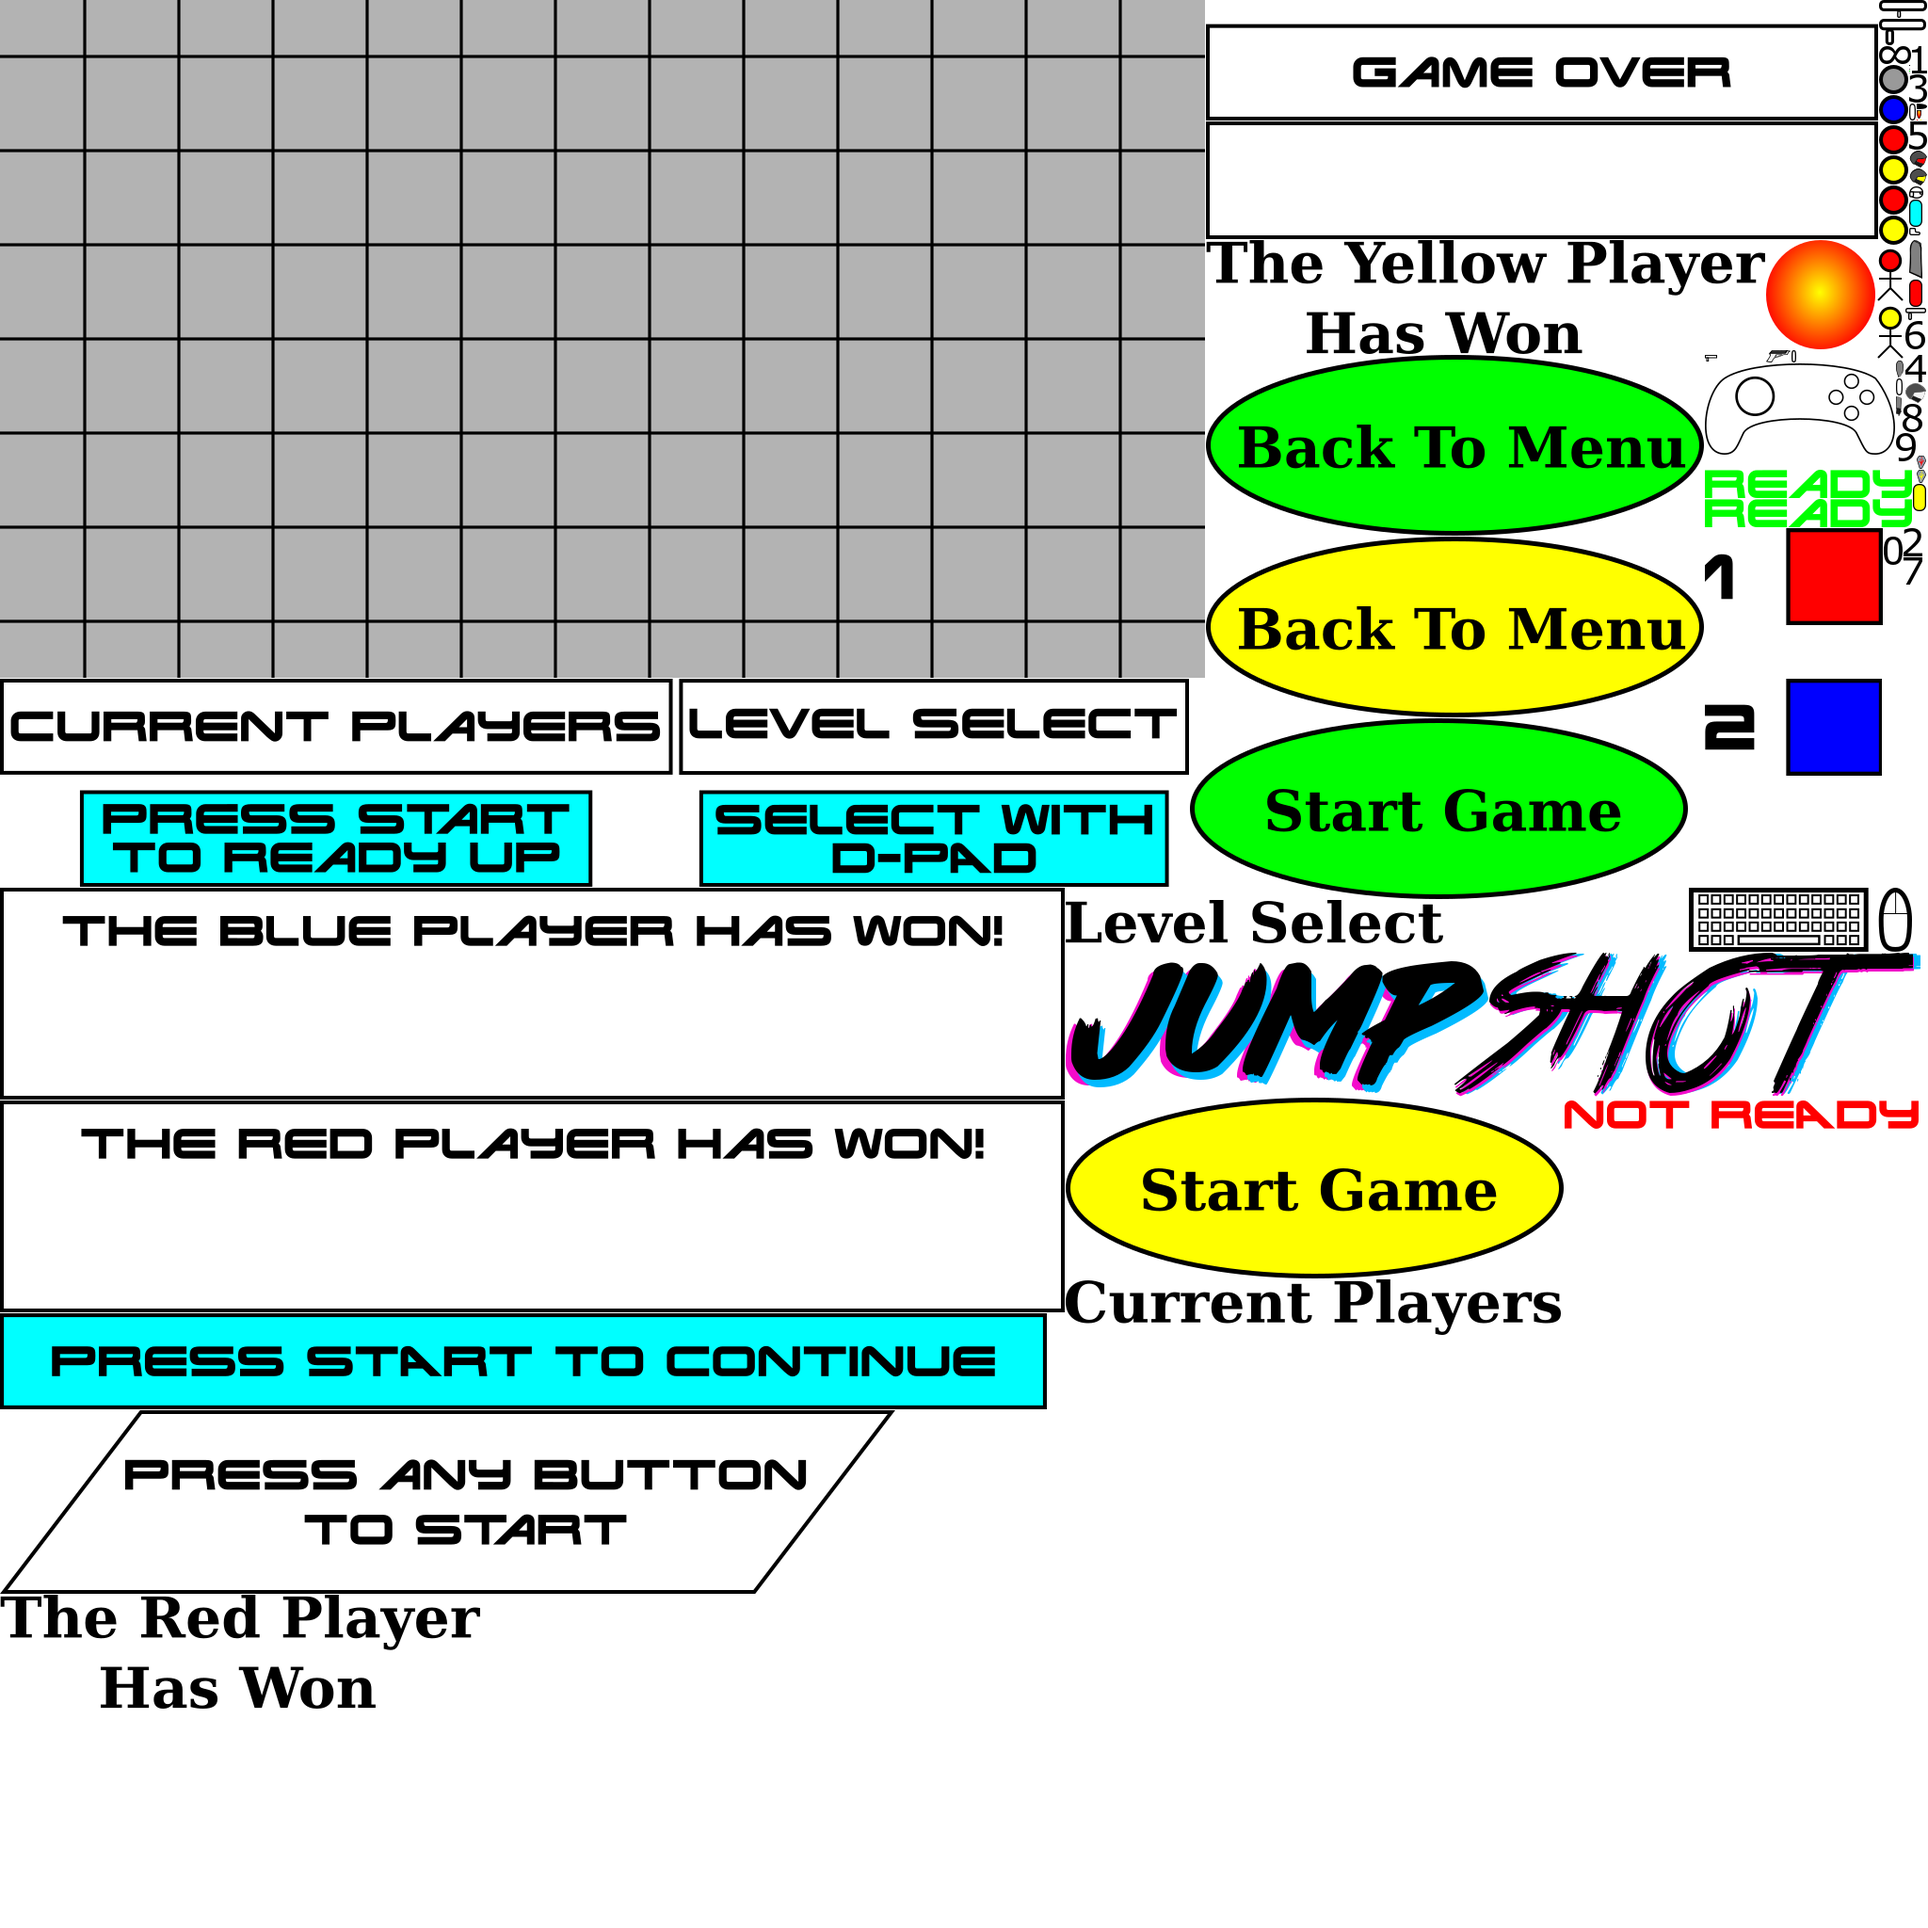
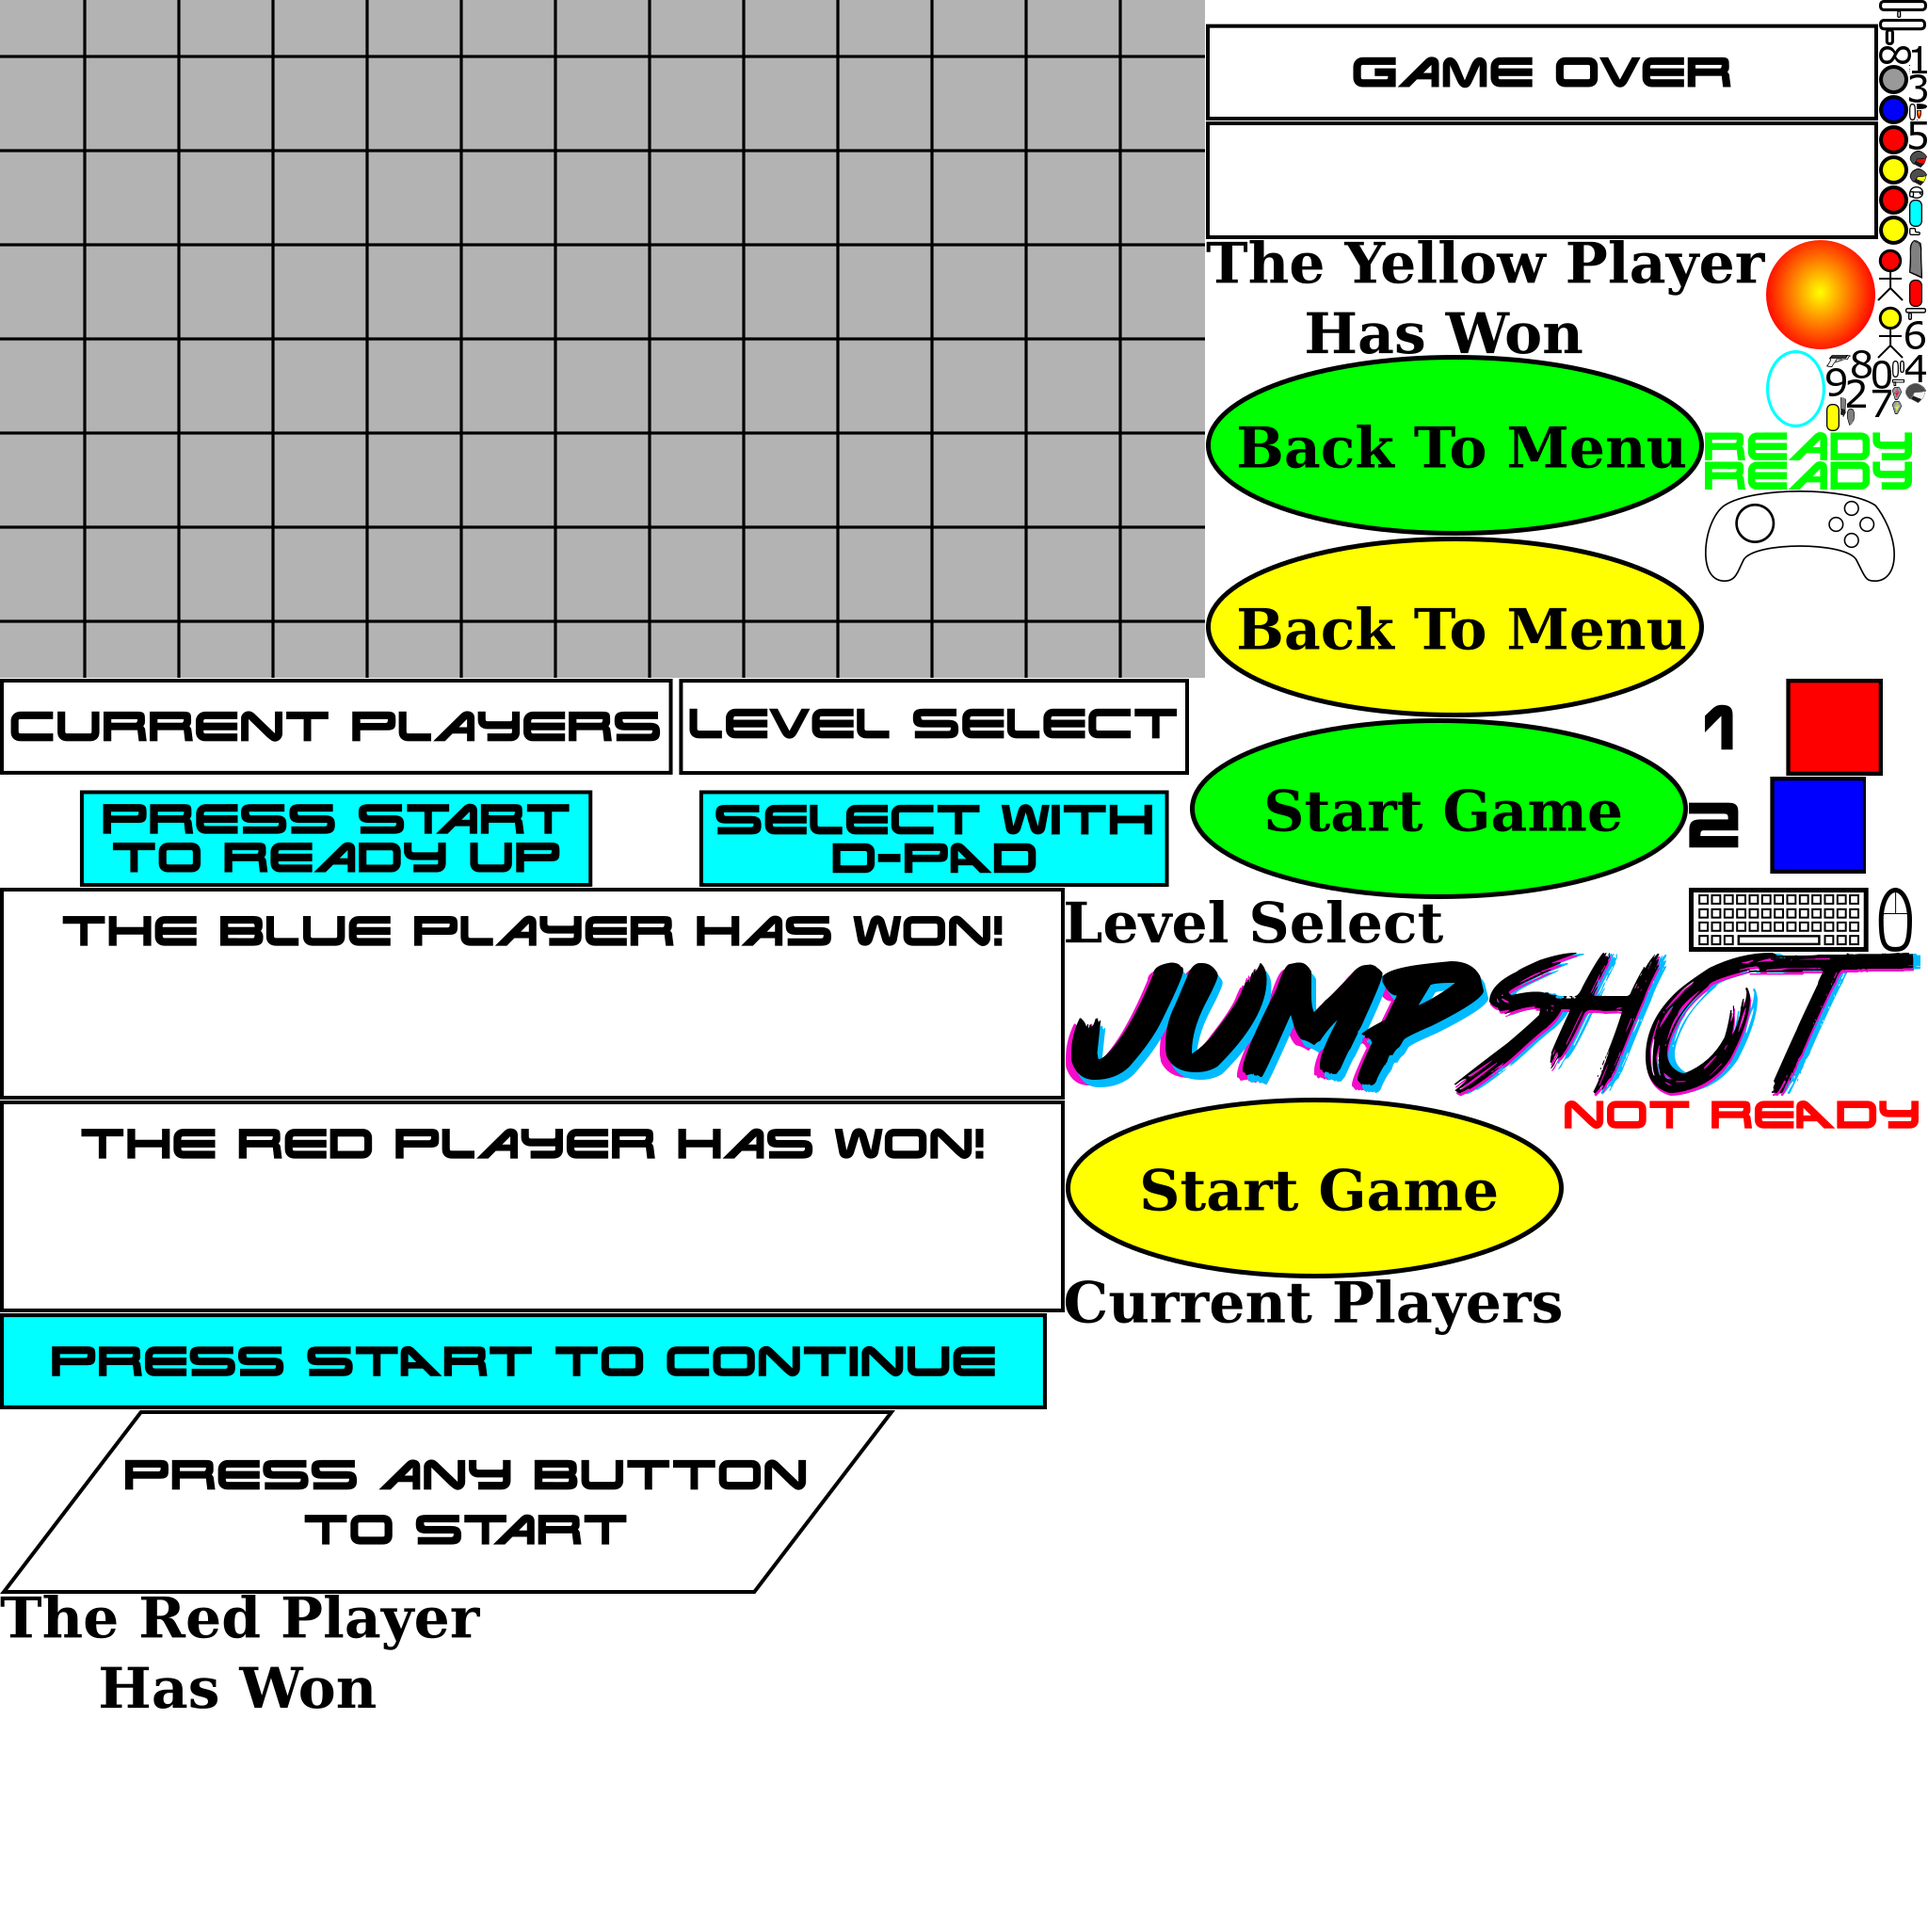
Add shield when spawning

Changed region(s): [[0.875, 0.1875, 1.0, 0.4688]]

diff --git a/src/gamescreen.cpp b/src/gamescreen.cpp
@@ -21,16 +21,9 @@ GameScreen::GameScreen(const std::vector<PlayerInfo> &infos, const Level& a_leve
     // Initialize the player state
     for (unsigned int i = 0; i < infos.size(); i++) {
         const auto& info = infos[i];
-        Player player(0, 300, info);
-        switch (i) {
-            case 0:
-                player.state.pos.x = 200;
-                break;
+        Point p = level.get_player_spawn_locations()[(int)info.color];
 
-            case 1:
-                player.state.pos.x = 1100;
-                break;
-        }
+        Player player(p.x, p.y, info);
         players.push_back(player);
     }
 }
@@ -468,24 +461,26 @@ std::unique_ptr<Screen> GameScreen::update(const std::map<int, inputs>& joystick
 std::unique_ptr<Screen> GameScreen::damage_player(int player_index, int damage) {
     auto& player = players[player_index];
 
+    if (player.state.invincibility_ticks_left > 0) {
+        return nullptr;
+    }
+
     player.state.health -= damage;
 
     if (player.state.health <= 0) {
         player.state.lives_left--;
 
         player.state.health = MAX_HEALTH;
-        player.state.pos.y = 300;
 
-        switch (player_index) {
-            case 0:
-                player.state.pos.x = 200;
-                break;
+        Point spawn_location = level.get_random_player_spawn_location(gen);
 
-            case 1:
-                player.state.pos.x = 1100;
-                break;
-        }
+        player.state.pos.x = spawn_location.x;
+        player.state.pos.y = spawn_location.y;
 
+        player.state.gun = std::make_unique<Pistol>();
+        player.state.ammo_left = -1;
+
+        player.state.invincibility_ticks_left = 130;
 
         if (player.state.lives_left == 0) {
             auto& otherPlayer = players[1 - player_index];

diff --git a/src/player.cpp b/src/player.cpp
@@ -94,6 +94,10 @@ void Player::update() {
         current_time = fmod((current_time + state.dx * (is_facing_right() ? 1 : -1) * 0.10) + 8, 8);
         last_time_diff = state.dx * (is_facing_right() ? 1 : -1) * 0.10;
     }
+
+    if (state.invincibility_ticks_left > 0) {
+        state.invincibility_ticks_left--;
+    }
 }
 
 bool Player::is_facing_right() const {
@@ -176,6 +180,13 @@ void Player::render(RenderList& list) const {
     if (!is_facing_right()) {
         list.scale(-1, 1);
     }
+
+
+    if (state.invincibility_ticks_left > 0) {
+        Rectangle shield_rect = list.get_image_dimensions("shield");
+        list.add_rect("shield", shield_rect.offset(0, -2));
+    }
+
 
     list.add_image("black", -20, -52, 40, 8);
     list.add_image("red", -18, -50, 36, 4);

diff --git a/src/level.h b/src/level.h
@@ -30,6 +30,13 @@ public:
 
     std::vector<Point> get_player_spawn_locations() const;
 
+    template<typename Generator>
+    Point get_random_player_spawn_location(Generator& g) const {
+        std::uniform_int_distribution<> box_dis(0, player_spawn_locations.size() - 1);
+
+        return player_spawn_locations[box_dis(g)];
+    }
+
 private:
     Level(
         const std::vector<Rectangle>& obstacles,

diff --git a/src/player.h b/src/player.h
@@ -76,6 +76,8 @@ struct PlayerState {
     std::shared_ptr<Gun> gun = std::make_shared<Pistol>();
 
     int ammo_left = -1;
+
+    int invincibility_ticks_left = 0;
 };
 
 class Player {
